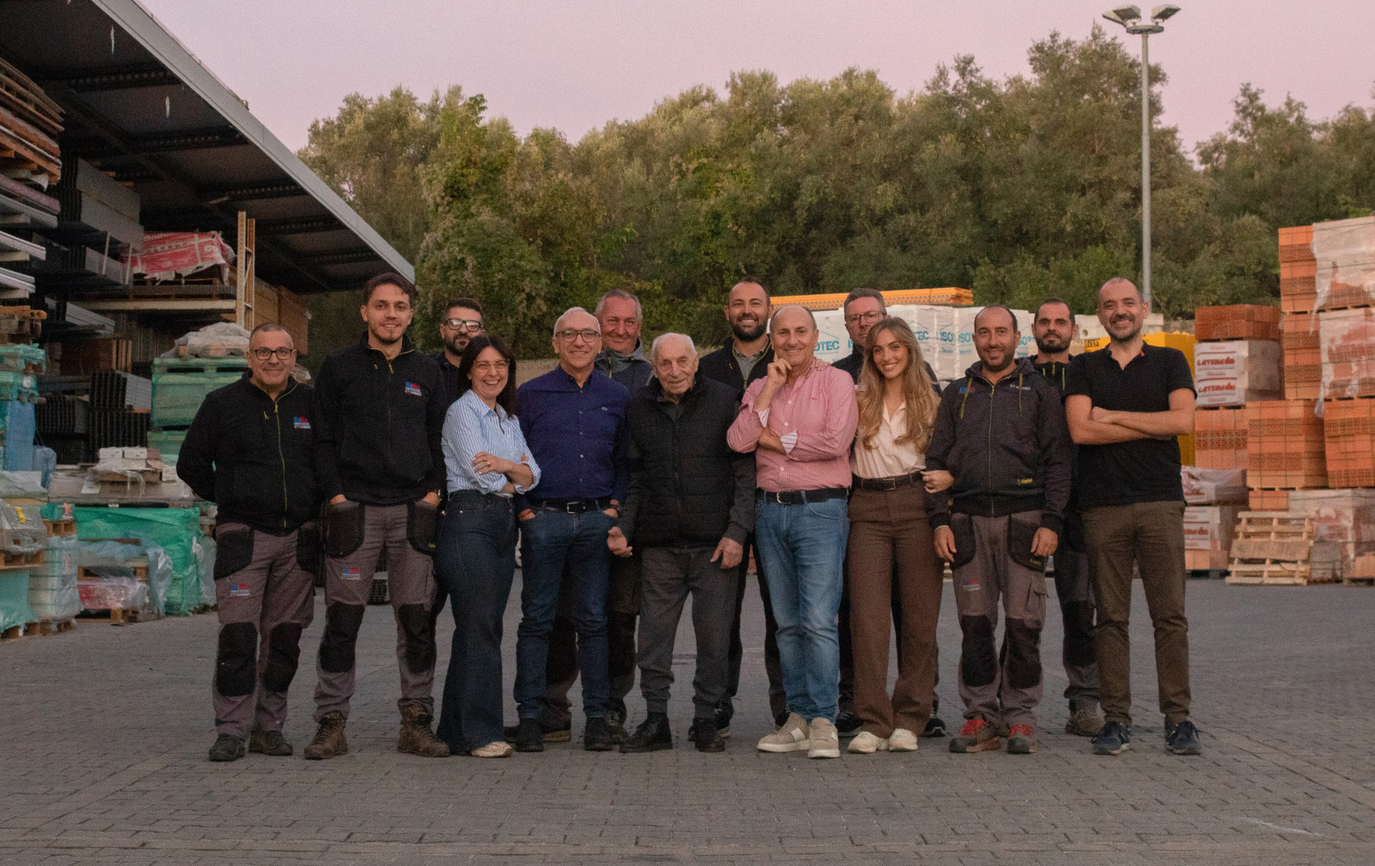
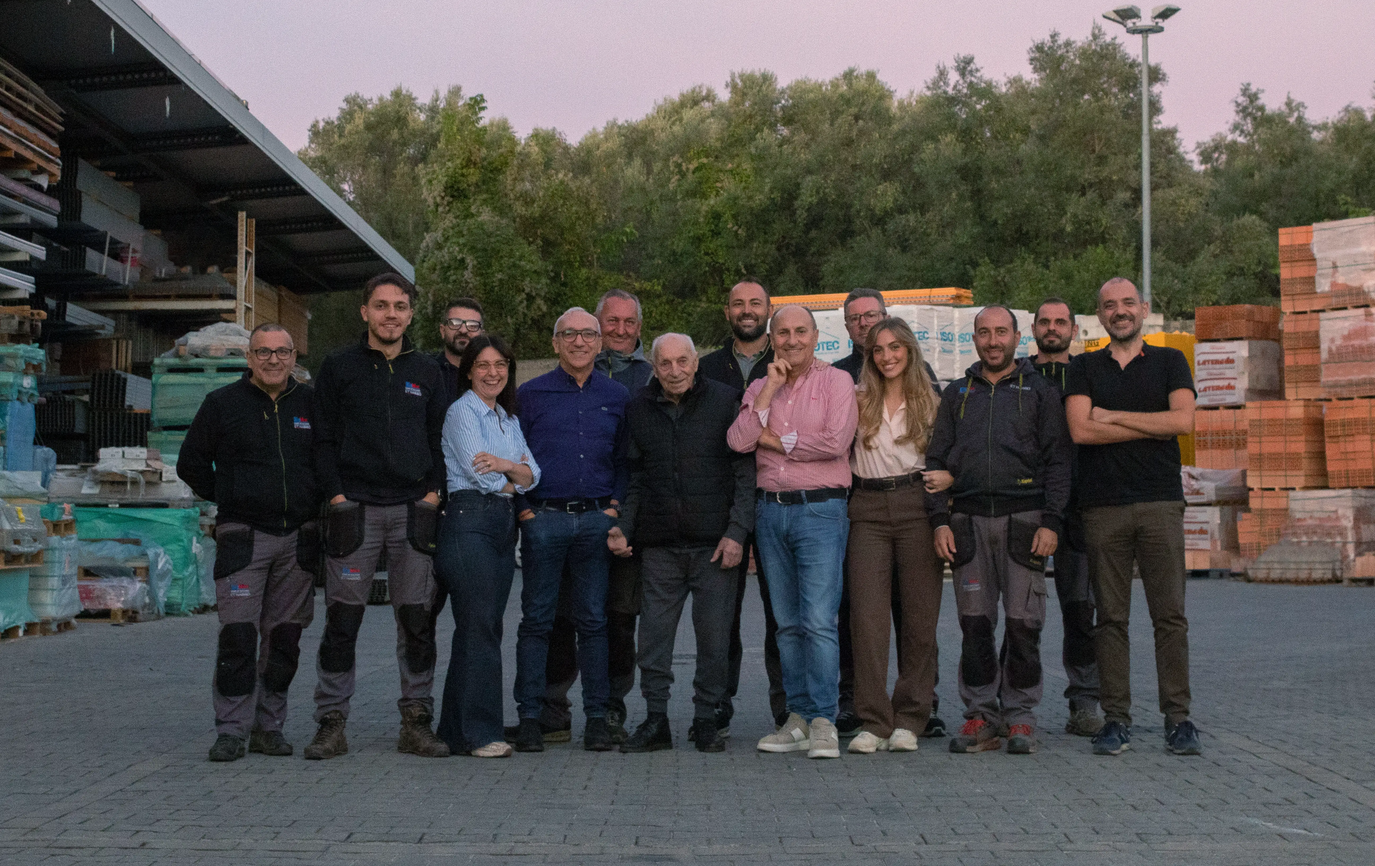
changes

diff --git a/public/styles.css b/public/styles.css
@@ -166,26 +166,26 @@ a {
 }
 
 .preloader-symbol {
-  --preloader-cube-lift: calc(var(--px) * 80);
+  --preloader-cube-lift: calc(var(--px) * 20);
   display: block;
   width: min(64vw, calc(var(--px) * 750));
   height: auto;
   overflow: visible;
-  transform: translateY(calc(-1 * var(--preloader-cube-lift))) scale(0.5);
+  transform: translateY(calc(-1 * var(--preloader-cube-lift))) scale(0.32);
   transform-origin: 50% 61.111%;
   animation: preloaderCubeApproach 700ms cubic-bezier(0.45, 0, 0.2, 1) 3180ms both;
 }
 
 @keyframes preloaderCubeApproach {
-  from { transform: translateY(calc(-1 * var(--preloader-cube-lift))) scale(0.5); }
-  to { transform: translateY(calc(-1 * var(--preloader-cube-lift) + var(--space-2) + var(--px) * 20)) scale(0.5); }
+  from { transform: translateY(calc(-1 * var(--preloader-cube-lift))) scale(0.32); }
+  to { transform: translateY(calc(-1 * var(--preloader-cube-lift) + var(--space-2) + var(--px) * 20)) scale(0.32); }
 }
 
 .preloader-identity {
   --preloader-logo-width: clamp(180px, calc(var(--px) * 260), 300px);
   --preloader-logo-top: calc(100% * 440 / 720 + var(--space-4));
   position: relative;
-  transform: translateY(calc(-1 * var(--space-8) - var(--px) * 90));
+  transform: translateY(calc(-1 * var(--space-8) - var(--px) * 60));
 }
 
 .preloader-header-logo {
@@ -287,7 +287,7 @@ a {
 @media (prefers-reduced-motion: reduce) {
   .preloader-symbol {
     animation: none;
-    transform: translateY(calc(-1 * var(--preloader-cube-lift) + var(--space-2) + var(--px) * 20)) scale(0.5);
+    transform: translateY(calc(-1 * var(--preloader-cube-lift) + var(--space-2) + var(--px) * 20)) scale(0.32);
   }
   
   .preloader-logo-part,
@@ -941,7 +941,7 @@ a {
 
 @media (max-width: 767px) {
   .company-details-bar {
-    gap: 3vw;
+    gap: 6vw;
     padding-block: 4vw;
     font-size: 3vw;
   }
@@ -963,6 +963,16 @@ a {
 
 .chi-siamo-footer .home-footer-image {
   object-position: center 75%;
+}
+
+@media (max-width: 767px) {
+  .edilizia-footer .home-footer-image {
+    object-position: 0% center;
+  }
+
+  .noleggio-hero-image {
+    object-position: 0% center;
+  }
 }
 
 .home-footer::after {
@@ -6624,7 +6634,7 @@ h3 {
   .mobile-menu.is-open .mobile-menu-icon {
     right: calc(50% - 2.25vw);
     width: 4.5vw;
-    height: 4.5vw;
+    height: 1.8vw;
   }
   
   .mobile-menu.is-open .mobile-menu-icon i {
@@ -8359,22 +8369,32 @@ h3 {
   
   .home-footer-logos-group {
     display: grid;
-    grid-template-columns: repeat(3, minmax(0, 1fr));
+    grid-template-columns: repeat(4, minmax(0, 1fr));
     align-items: center;
-    gap: 2vw;
+    gap: 0 var(--layout-gap);
   }
   
   .home-footer .home-footer-logos-group img {
-    grid-column: auto;
     align-self: center;
-    width: 100%;
-    height: 8vw;
+    width: auto;
+    height: calc(var(--px) * 50);
+    max-width: none;
+  }
+
+  .home-footer .home-footer-logo-bigmat {
+    grid-column: 1;
+    justify-self: start;
+    width: calc(var(--px) * 290);
+  }
+
+  .home-footer .home-footer-logo-bigrent {
+    grid-column: 2 / 4;
+    justify-self: center;
   }
 
   .home-footer .home-footer-logos-group img.home-footer-logo-habimat {
-    width: 70%;
-    height: auto;
-    justify-self: center;
+    grid-column: 4;
+    justify-self: end;
   }
   
   .home-footer-credits {

diff --git a/public/app.jsx b/public/app.jsx
@@ -6,7 +6,7 @@ const brandsApiUrl = '/api/brands.php';
 const googleReviewsApiUrl = '/api/google-reviews.php';
 const productCategoriesApiUrl = '/api/product-categories.php';
 const layoutGridStorageKey = 'bigmat-layout-grid-visible';
-const SITE_PRELOADER_ENABLED = false;
+const SITE_PRELOADER_ENABLED = true;
 const homeSectionColors = ['#f5f2f0', '#f5f2f0', '#58575c', '#f5f2f0', '#f5f2f0', '#f5f2f0'];
 const fallbackClientReviews = [
   {
@@ -894,7 +894,9 @@ function App() {
   const [currentPath, setCurrentPath] = useState(() => window.location.pathname.replace(/\/+$/, '') || '/');
   const [initialPreloaderPhase, setInitialPreloaderPhase] = useState(() => {
     const initialPath = window.location.pathname.replace(/\/+$/, '') || '/';
-    return SITE_PRELOADER_ENABLED && initialPath !== '/preloader' && !initialPath.startsWith('/admin') ? 'visible' : 'done';
+    const prefersReducedMotion = window.matchMedia('(prefers-reduced-motion: reduce)').matches;
+    return SITE_PRELOADER_ENABLED && !prefersReducedMotion
+      && initialPath !== '/preloader' && !initialPath.startsWith('/admin') ? 'visible' : 'done';
   });
   const [mobileMenuPhase, setMobileMenuPhase] = useState('closed');
   const [mobileMenuBottomCollapsed, setMobileMenuBottomCollapsed] = useState(false);
@@ -3871,7 +3873,7 @@ if (isPublicHome) {
     </h2>
     <p className="services-small-copy services-tools-copy">
     <span className="services-tools-copy-desktop">
-    <RevealLines lines={['Forniamo un servizio di', 'consulenza, progettazione e', 'costruzione con ditte edili partner.']} />
+    <RevealLines lines={['Forniamo un servizio', 'di consulenza, progettazione', 'e costruzione con ditte edili partner.']} />
     </span>
     <span className="services-tools-copy-mobile">
     <RevealLines lines={['Forniamo un servizio di consulenza, progettazione e costruzione con ditte edili partner.']} />

diff --git a/public/index.html b/public/index.html
@@ -2,7 +2,14 @@
 <html lang="it">
   <head>
     <meta charset="UTF-8" />
-    <meta name="viewport" content="width=device-width, initial-scale=1.0, viewport-fit=cover" />
+    <meta name="viewport" content="width=device-width, initial-scale=1.0, maximum-scale=1, user-scalable=no, viewport-fit=cover" />
+    <script>
+      document.addEventListener('wheel', (event) => {
+        if (event.ctrlKey) event.preventDefault();
+      }, { passive: false, capture: true });
+      document.addEventListener('gesturestart', (event) => event.preventDefault(), { passive: false });
+      document.addEventListener('gesturechange', (event) => event.preventDefault(), { passive: false });
+    </script>
     <title>BigMat | ET Nasso</title>
     <link rel="icon" type="image/svg+xml" href="/assets/logos/Favicon_BM.svg" />
     <link rel="stylesheet" href="https://unpkg.com/leaflet@1.9.4/dist/leaflet.css" />
